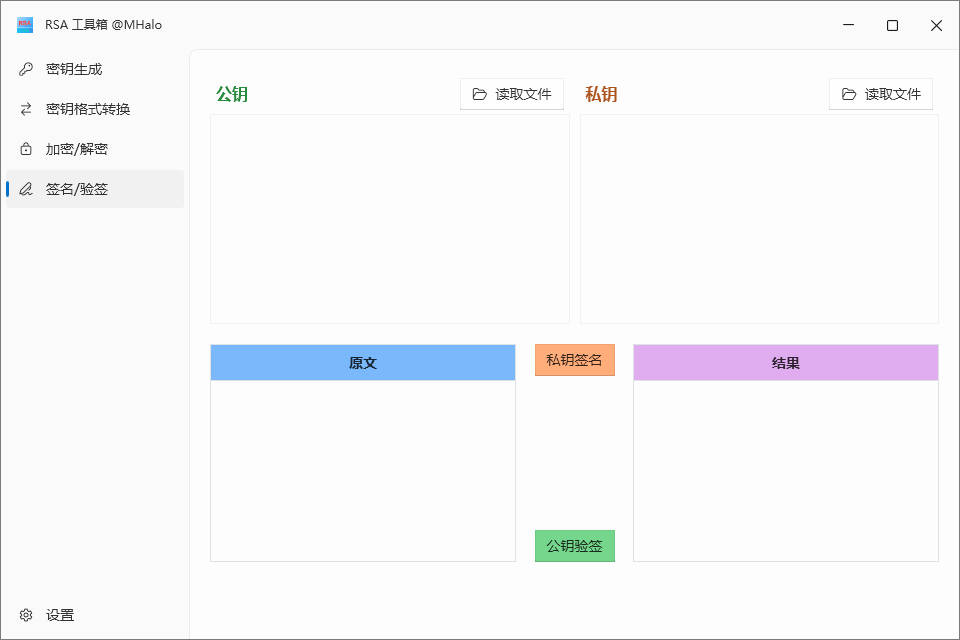
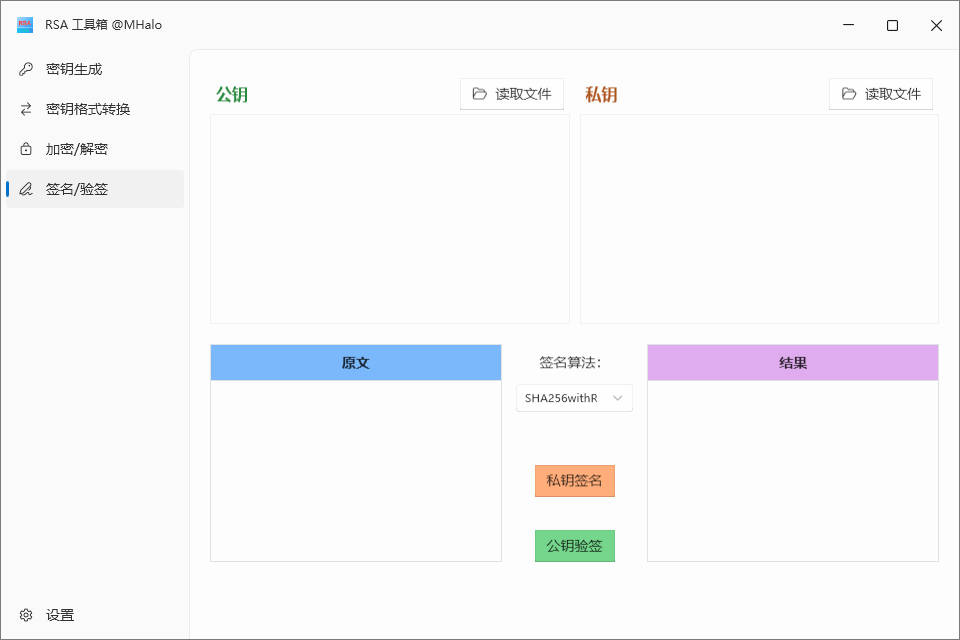
签名/验签时增加算法选择

diff --git a/Views/Pages/RsaSignPage.xaml b/Views/Pages/RsaSignPage.xaml
@@ -36,7 +36,7 @@
         </Style>
     </Page.Resources>
 
-    
+
     <Grid VerticalAlignment="Top">
         <Grid.RowDefinitions>
             <RowDefinition Height="Auto"></RowDefinition>
@@ -121,9 +121,9 @@
         </Border>
         <Grid Grid.Row="1" Margin="0,20,0,0">
             <Grid.ColumnDefinitions>
-                <ColumnDefinition Width="42*"></ColumnDefinition>
-                <ColumnDefinition Width="16*"></ColumnDefinition>
-                <ColumnDefinition Width="42*"></ColumnDefinition>
+                <ColumnDefinition Width="40*"></ColumnDefinition>
+                <ColumnDefinition Width="20*"></ColumnDefinition>
+                <ColumnDefinition Width="40*"></ColumnDefinition>
             </Grid.ColumnDefinitions>
             <Border Grid.Column="0" BorderBrush="#dee2e6" BorderThickness="1">
                 <Grid>
@@ -140,13 +140,43 @@
             <Border Grid.Column="1">
                 <Grid HorizontalAlignment="Center">
                     <Grid.RowDefinitions>
-                        <RowDefinition Height="50*"></RowDefinition>
-                        <RowDefinition Height="50*"></RowDefinition>
+                        <RowDefinition Height="40*"></RowDefinition>
+                        <RowDefinition Height="30*"></RowDefinition>
+                        <RowDefinition Height="30*"></RowDefinition>
                     </Grid.RowDefinitions>
                     <Border Grid.Row="0" VerticalAlignment="Top">
+                        <Grid>
+                            <Grid.RowDefinitions>
+                                <RowDefinition Height="36"></RowDefinition>
+                                <RowDefinition Height="*"></RowDefinition>
+                            </Grid.RowDefinitions>
+                            <TextBlock Grid.Row="0"  Text="签名算法：" VerticalAlignment="Center" HorizontalAlignment="Center" />
+                            <ComboBox Grid.Row="1" SelectedIndex="{Binding ViewModel.AlgorithmSelectedIndex, Mode = TwoWay}"  HorizontalAlignment="Center" FontSize="12" RenderTransformOrigin="0.5,0.5">
+                                <ComboBox.RenderTransform>
+                                    <TransformGroup>
+                                        <ScaleTransform ScaleX="0.8" ScaleY="0.8"/>
+                                        <SkewTransform/>
+                                        <RotateTransform/>
+                                        <TranslateTransform/>
+                                    </TransformGroup>
+                                </ComboBox.RenderTransform>
+                                <ComboBoxItem Content="SHA1withRSA" />
+                                <ComboBoxItem Content="SHA256withRSA" IsSelected="True" />
+                                <ComboBoxItem Content="SHA384withRSA" />
+                                <ComboBoxItem Content="SHA512withRSA" />
+                                <ComboBoxItem Content="SHA1withECDSA" />
+                                <ComboBoxItem Content="SHA224withECDSA" />
+                                <ComboBoxItem Content="SHA256withECDSA" />
+                                <ComboBoxItem Content="SHA384withECDSA" />
+                                <ComboBoxItem Content="SHA512withECDSA" />
+                                <ComboBoxItem Content="MD5withRSA" />
+                            </ComboBox>
+                        </Grid>
+                    </Border>
+                    <Border Grid.Row="1" VerticalAlignment="Bottom" HorizontalAlignment="Center">
                         <ui:Button BorderThickness="1" CornerRadius="0" Content="私钥签名" Height="32" FontSize="12" Background="#CCff9959" PressedBackground="#FFff9959"  MouseOverBackground="#EEff9959" Click="PrivateKeySign_Click"  />
                     </Border>
-                    <Border Grid.Row="1" VerticalAlignment="Bottom">
+                    <Border Grid.Row="2" VerticalAlignment="Bottom" HorizontalAlignment="Center">
                         <ui:Button BorderThickness="1" CornerRadius="0" Content="公钥验签" Height="32" FontSize="12" Background="#CC52CC6F" PressedBackground="#FF52cc6f" MouseOverBackground="#EE52CC6F" Click="PublicKeyVertify_Click"  />
                     </Border>
                 </Grid>

diff --git a/Views/Pages/RsaSignPage.xaml.cs b/Views/Pages/RsaSignPage.xaml.cs
@@ -459,7 +459,8 @@ namespace MHalo.CoreFx.RsaToolBox.Views.Pages
             {
                 if (ViewModel.PrivateKeyType.HasValue)
                 {
-                    ViewModel.ResultText = RSAHelper.SignData(ViewModel.PrivateKeyType.Value, ViewModel.OrginalText, ViewModel.PrivateKey);
+                    var algorithm = (SignerAlgorithm)ViewModel.AlgorithmSelectedIndex;
+                    ViewModel.ResultText = RSAHelper.SignData(ViewModel.PrivateKeyType.Value, ViewModel.OrginalText, ViewModel.PrivateKey, algorithm);
                 }
                 else
                 {
@@ -523,7 +524,8 @@ namespace MHalo.CoreFx.RsaToolBox.Views.Pages
 
             try
             {
-                if (ViewModel.PublicKeyType.HasValue && RSAHelper.VertifyData(ViewModel.PublicKeyType.Value, ViewModel.OrginalText, ViewModel.ResultText, ViewModel.PublickKey))
+                var algorithm = (SignerAlgorithm)ViewModel.AlgorithmSelectedIndex;
+                if (ViewModel.PublicKeyType.HasValue && RSAHelper.VertifyData(ViewModel.PublicKeyType.Value, ViewModel.OrginalText, ViewModel.ResultText, ViewModel.PublickKey, algorithm))
                 {
                     snackbarService.Show(
                         "验签成功",
@@ -536,7 +538,7 @@ namespace MHalo.CoreFx.RsaToolBox.Views.Pages
                 else
                 {
                     snackbarService.Show(
-                        "签名失败",
+                        "验签失败",
                         "未知异常",
                         ControlAppearance.Caution,
                         new SymbolIcon(SymbolRegular.Fluent24),
@@ -547,7 +549,7 @@ namespace MHalo.CoreFx.RsaToolBox.Views.Pages
             catch (Exception ex)
             {
                 snackbarService.Show(
-                    "解密失败",
+                    "验签失败",
                     ex.Message,
                     ControlAppearance.Caution,
                     new SymbolIcon(SymbolRegular.Fluent24),

diff --git a/ViewModels/Pages/RsaSignViewModel.cs b/ViewModels/Pages/RsaSignViewModel.cs
@@ -12,6 +12,9 @@ namespace MHalo.CoreFx.RsaToolBox.ViewModels.Pages
         private RSAKeyType? _publicKeyType;
         private RSAKeyType? _privateKeyType;
 
+        [ObservableProperty]
+        private int _algorithmSelectedIndex;
+
         public string PublickKey
         {
             get => _publicKey;

diff --git a/README.md b/README.md
@@ -36,6 +36,8 @@
 <img src="https://user-images.githubusercontent.com/19524115/224662425-0b5223ca-e775-4331-8250-0779fd02c640.JPG" height="320">
 
 ## 🔵 更新日志
+- 2024-05-21 
+签名/验签时增加算法选择
 - 2024-05-17 
 完成全部功能的初始版本
 - 2024-05-16  
